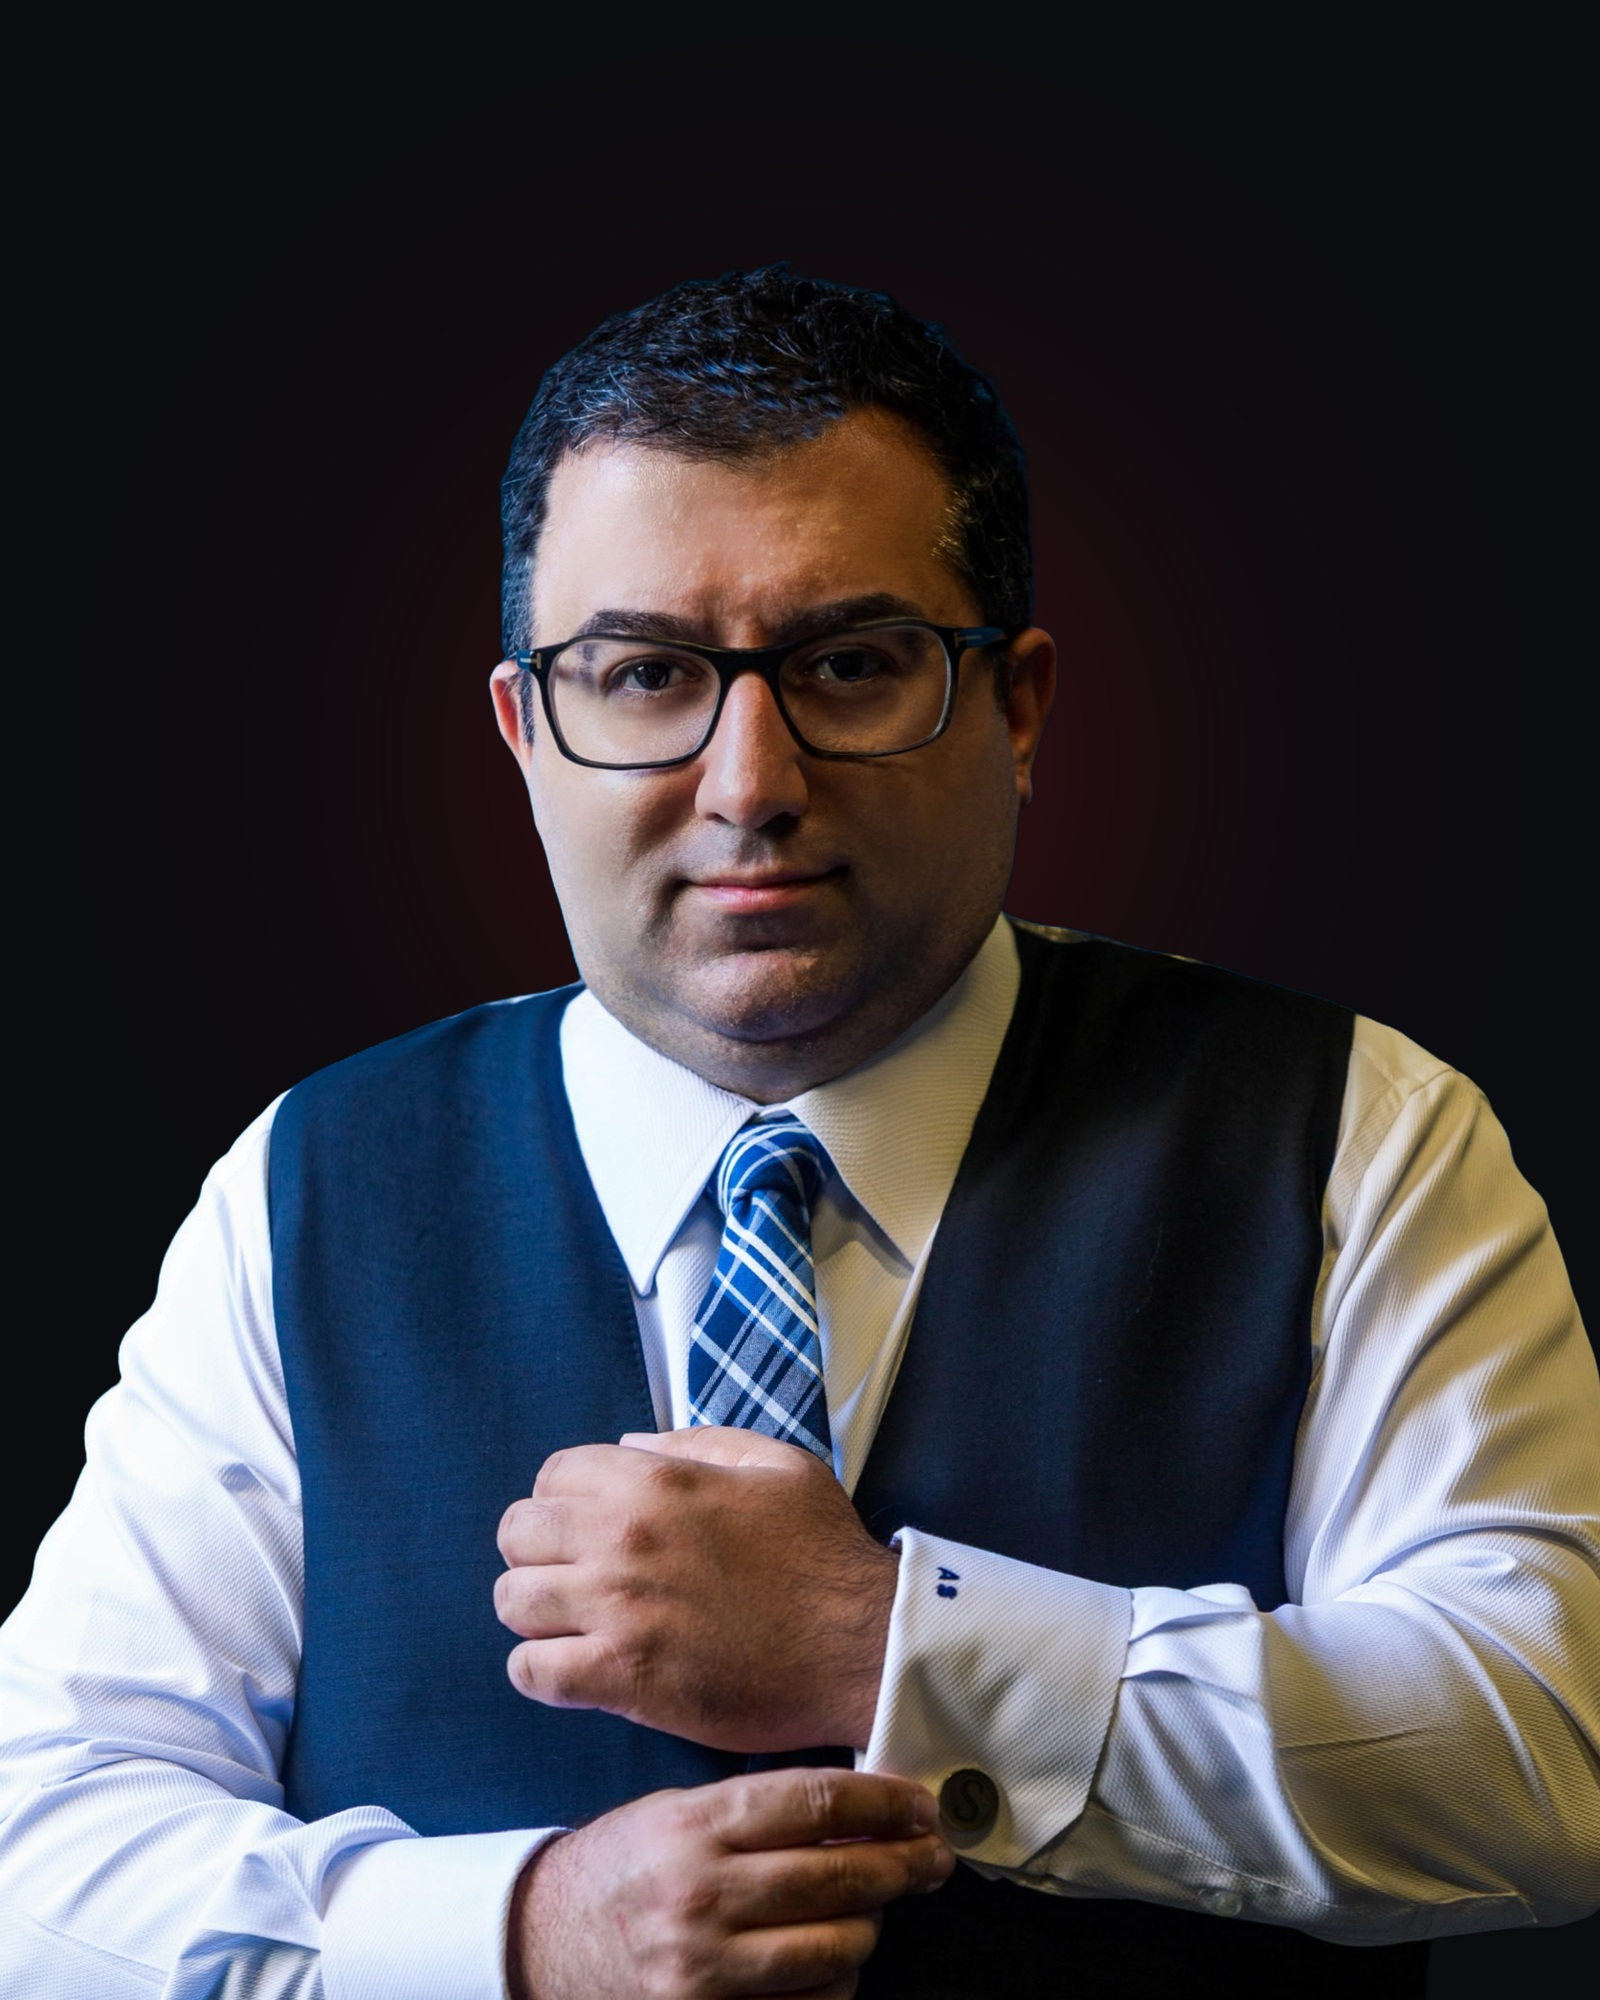
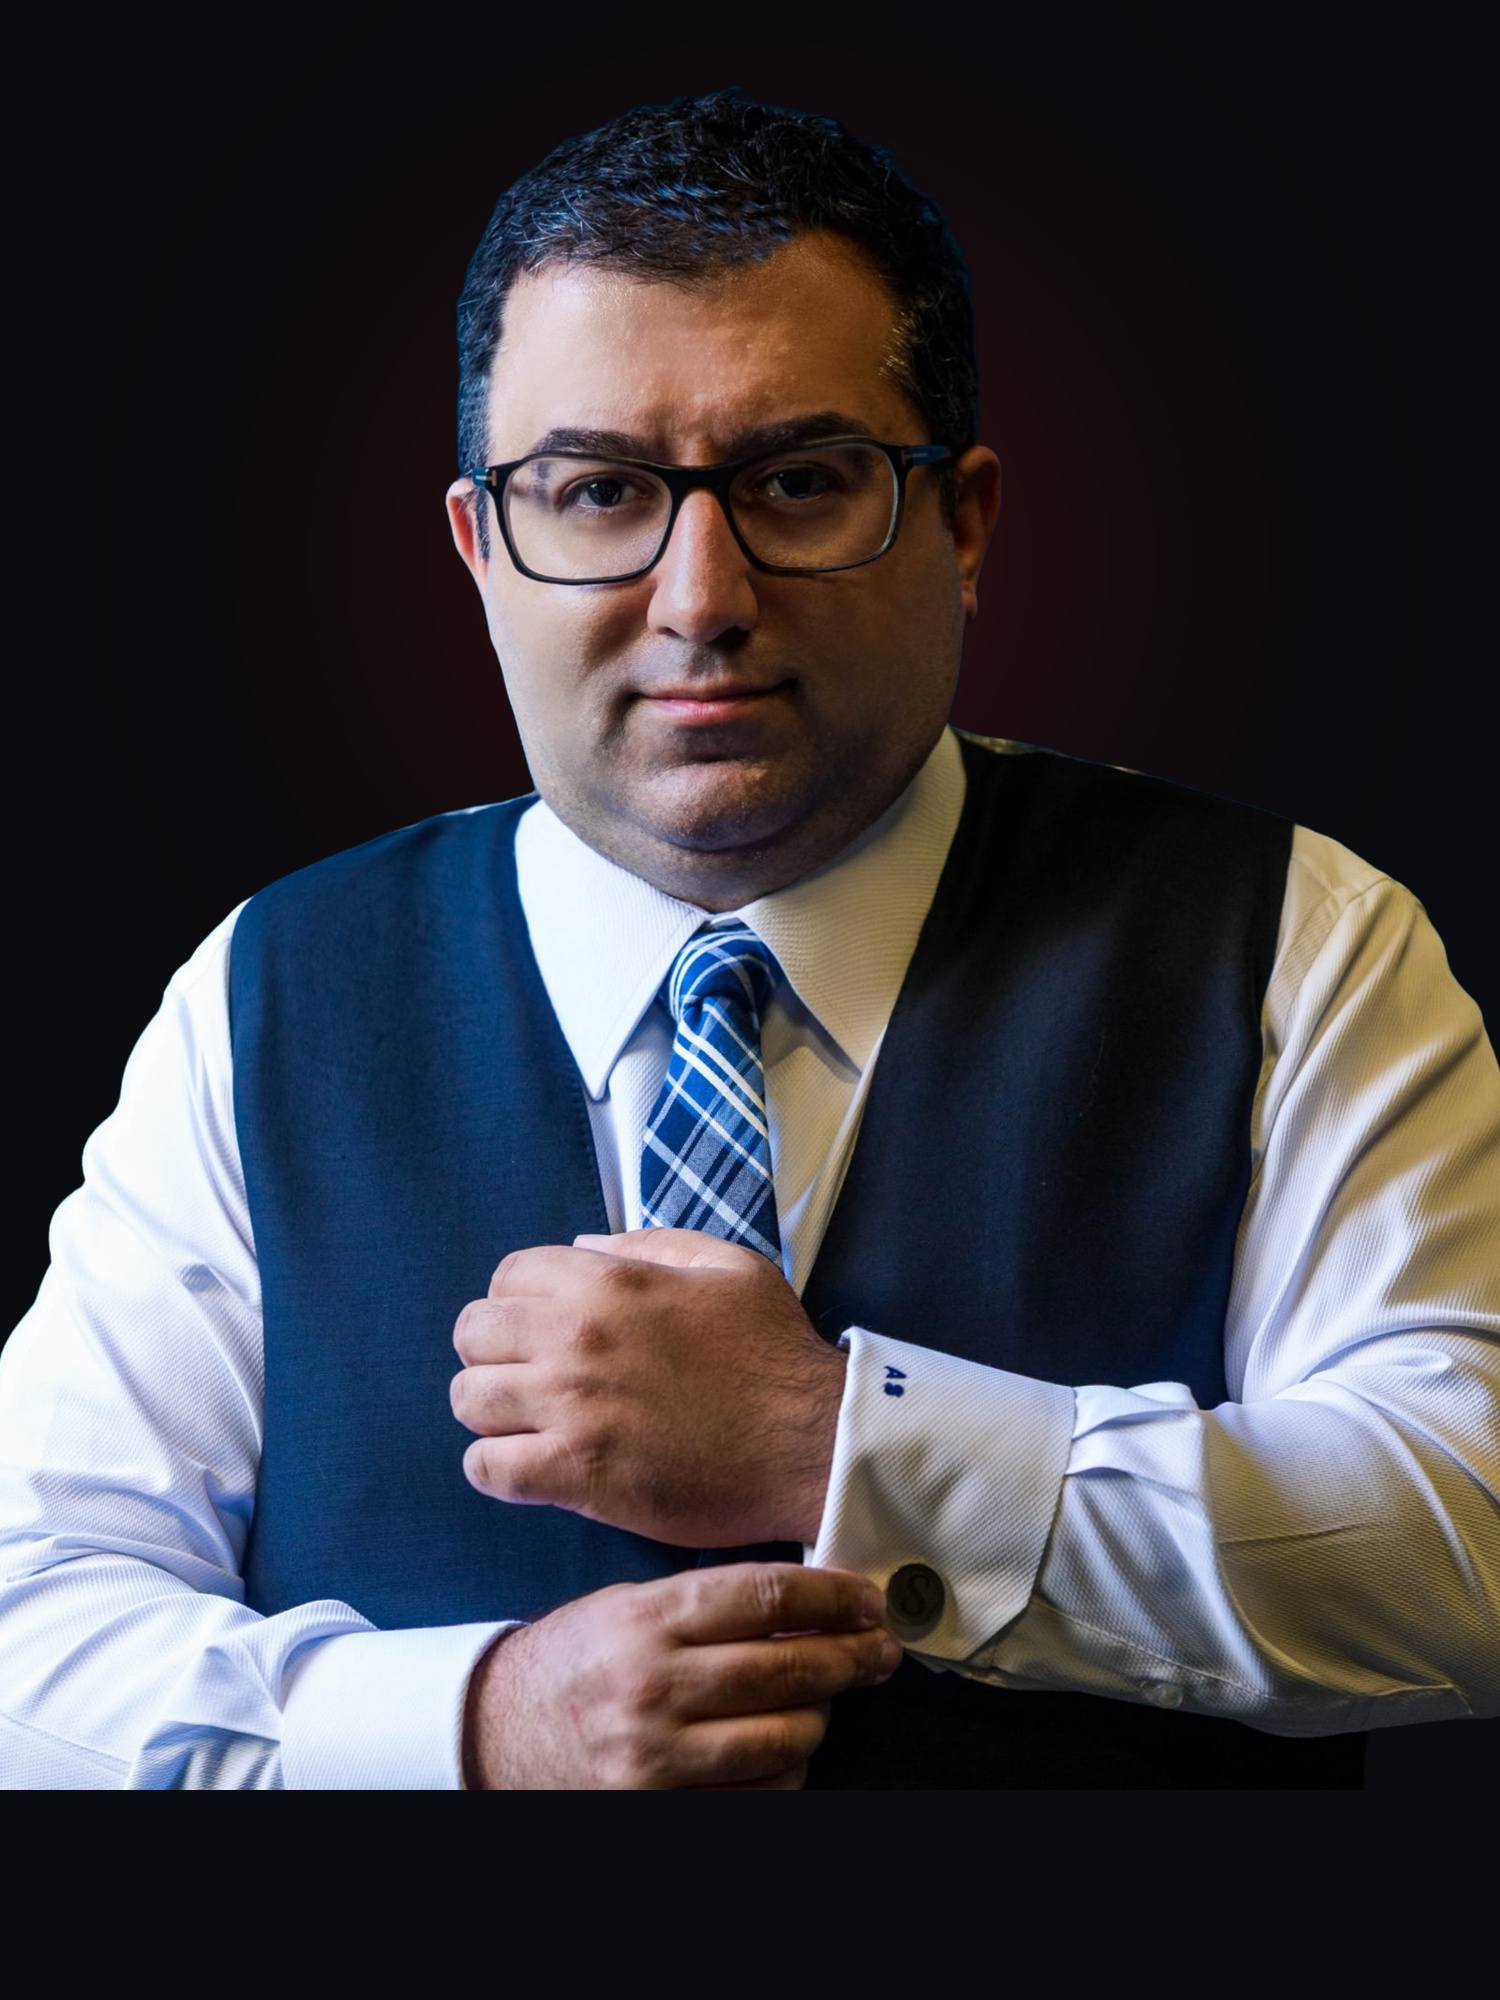
Shift Adrian portrait upward to eliminate excessive top headroom and set object-position center top

diff --git a/index.html b/index.html
@@ -13,8 +13,8 @@
   <link href="https://fonts.googleapis.com/css2?family=Outfit:wght@300;400;500;600;700;800;900&display=swap" rel="stylesheet">
   
   <!-- Stylesheets (Cache-Busted) -->
-  <link rel="stylesheet" href="css/main.css?v=20260908_v55">
-  <link rel="stylesheet" href="css/components.css?v=20260908_v55">
+  <link rel="stylesheet" href="css/main.css?v=20260908_v56">
+  <link rel="stylesheet" href="css/components.css?v=20260908_v56">
 
   <!-- Schema.org JSON-LD -->
   <script id="geo-jsonld-script" type="application/ld+json">
@@ -394,7 +394,7 @@
           <div class="about-portrait-wrap">
             <div class="about-portrait-frame">
               <div class="about-portrait-card">
-                <img src="images/adrian_saint_about_portrait.jpg?v=20260908_v1" alt="Adrian Saint - Master Corporate Mentalist & Mind Reader" class="about-portrait-img">
+                <img src="images/adrian_saint_about_portrait.jpg?v=20260908_v56" alt="Adrian Saint - Master Corporate Mentalist & Mind Reader" class="about-portrait-img">
                 
                 <!-- HR & Corporate Safe Guarantee Overlay -->
                 <div class="about-guarantee-overlay">
@@ -1036,6 +1036,6 @@
   </div>
 
   <!-- JavaScript Modules (Cache-Busted) -->
-  <script type="module" src="js/app.js?v=20260908_v55"></script>
+  <script type="module" src="js/app.js?v=20260908_v56"></script>
 </body>
 </html>

diff --git a/css/components.css b/css/components.css
@@ -548,6 +548,7 @@
   width: 100%;
   aspect-ratio: 3/4;
   object-fit: cover;
+  object-position: center top;
   display: block;
 }
 
